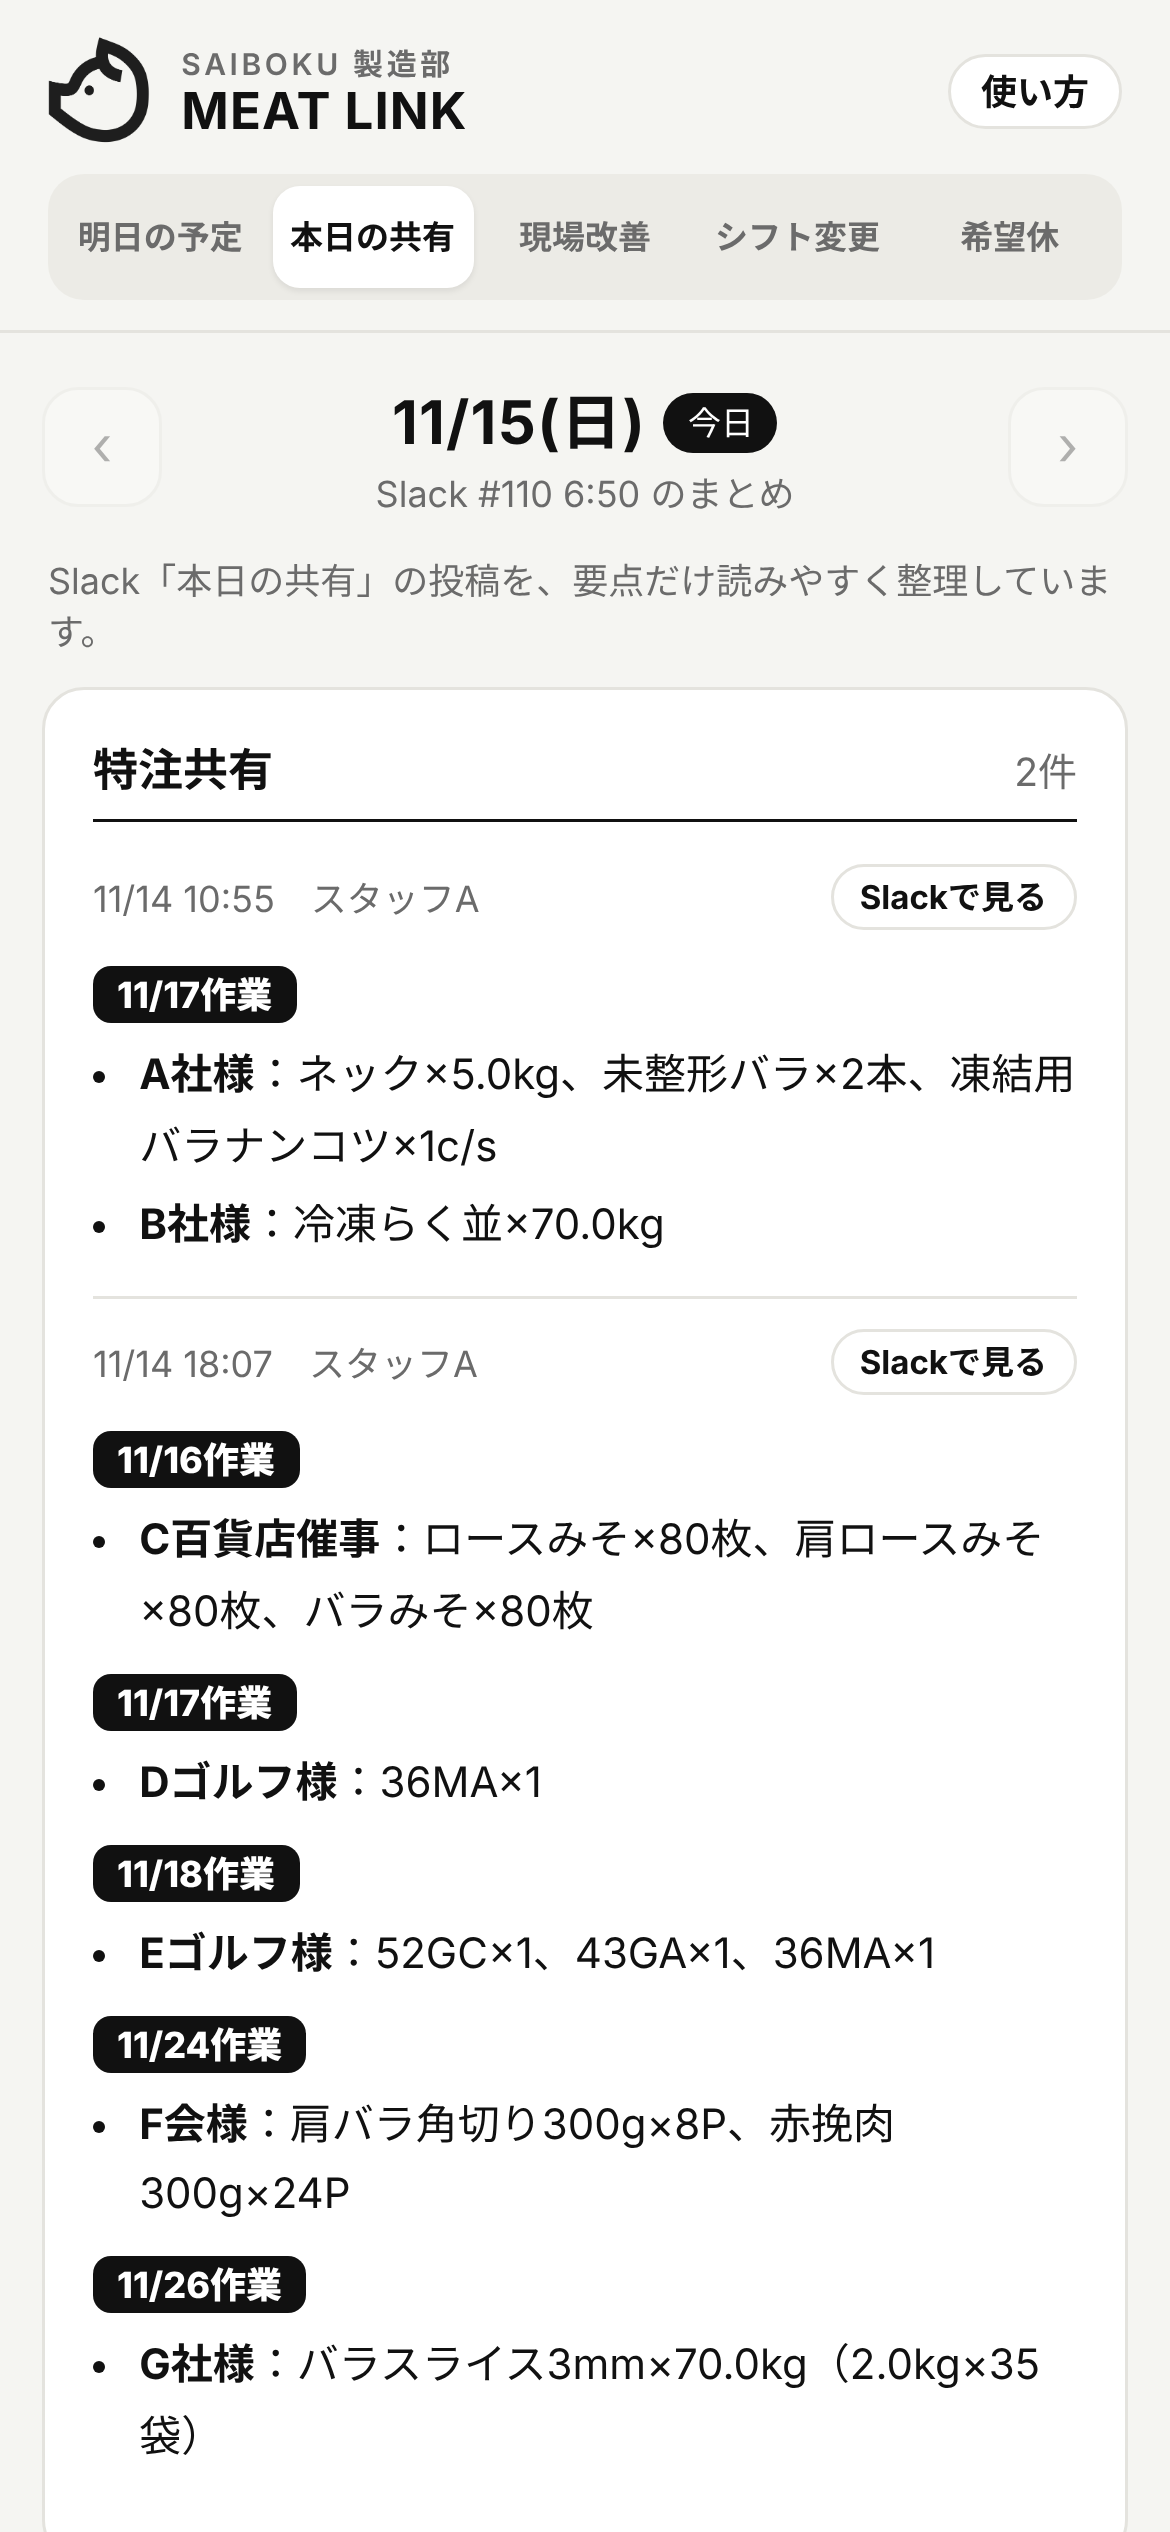
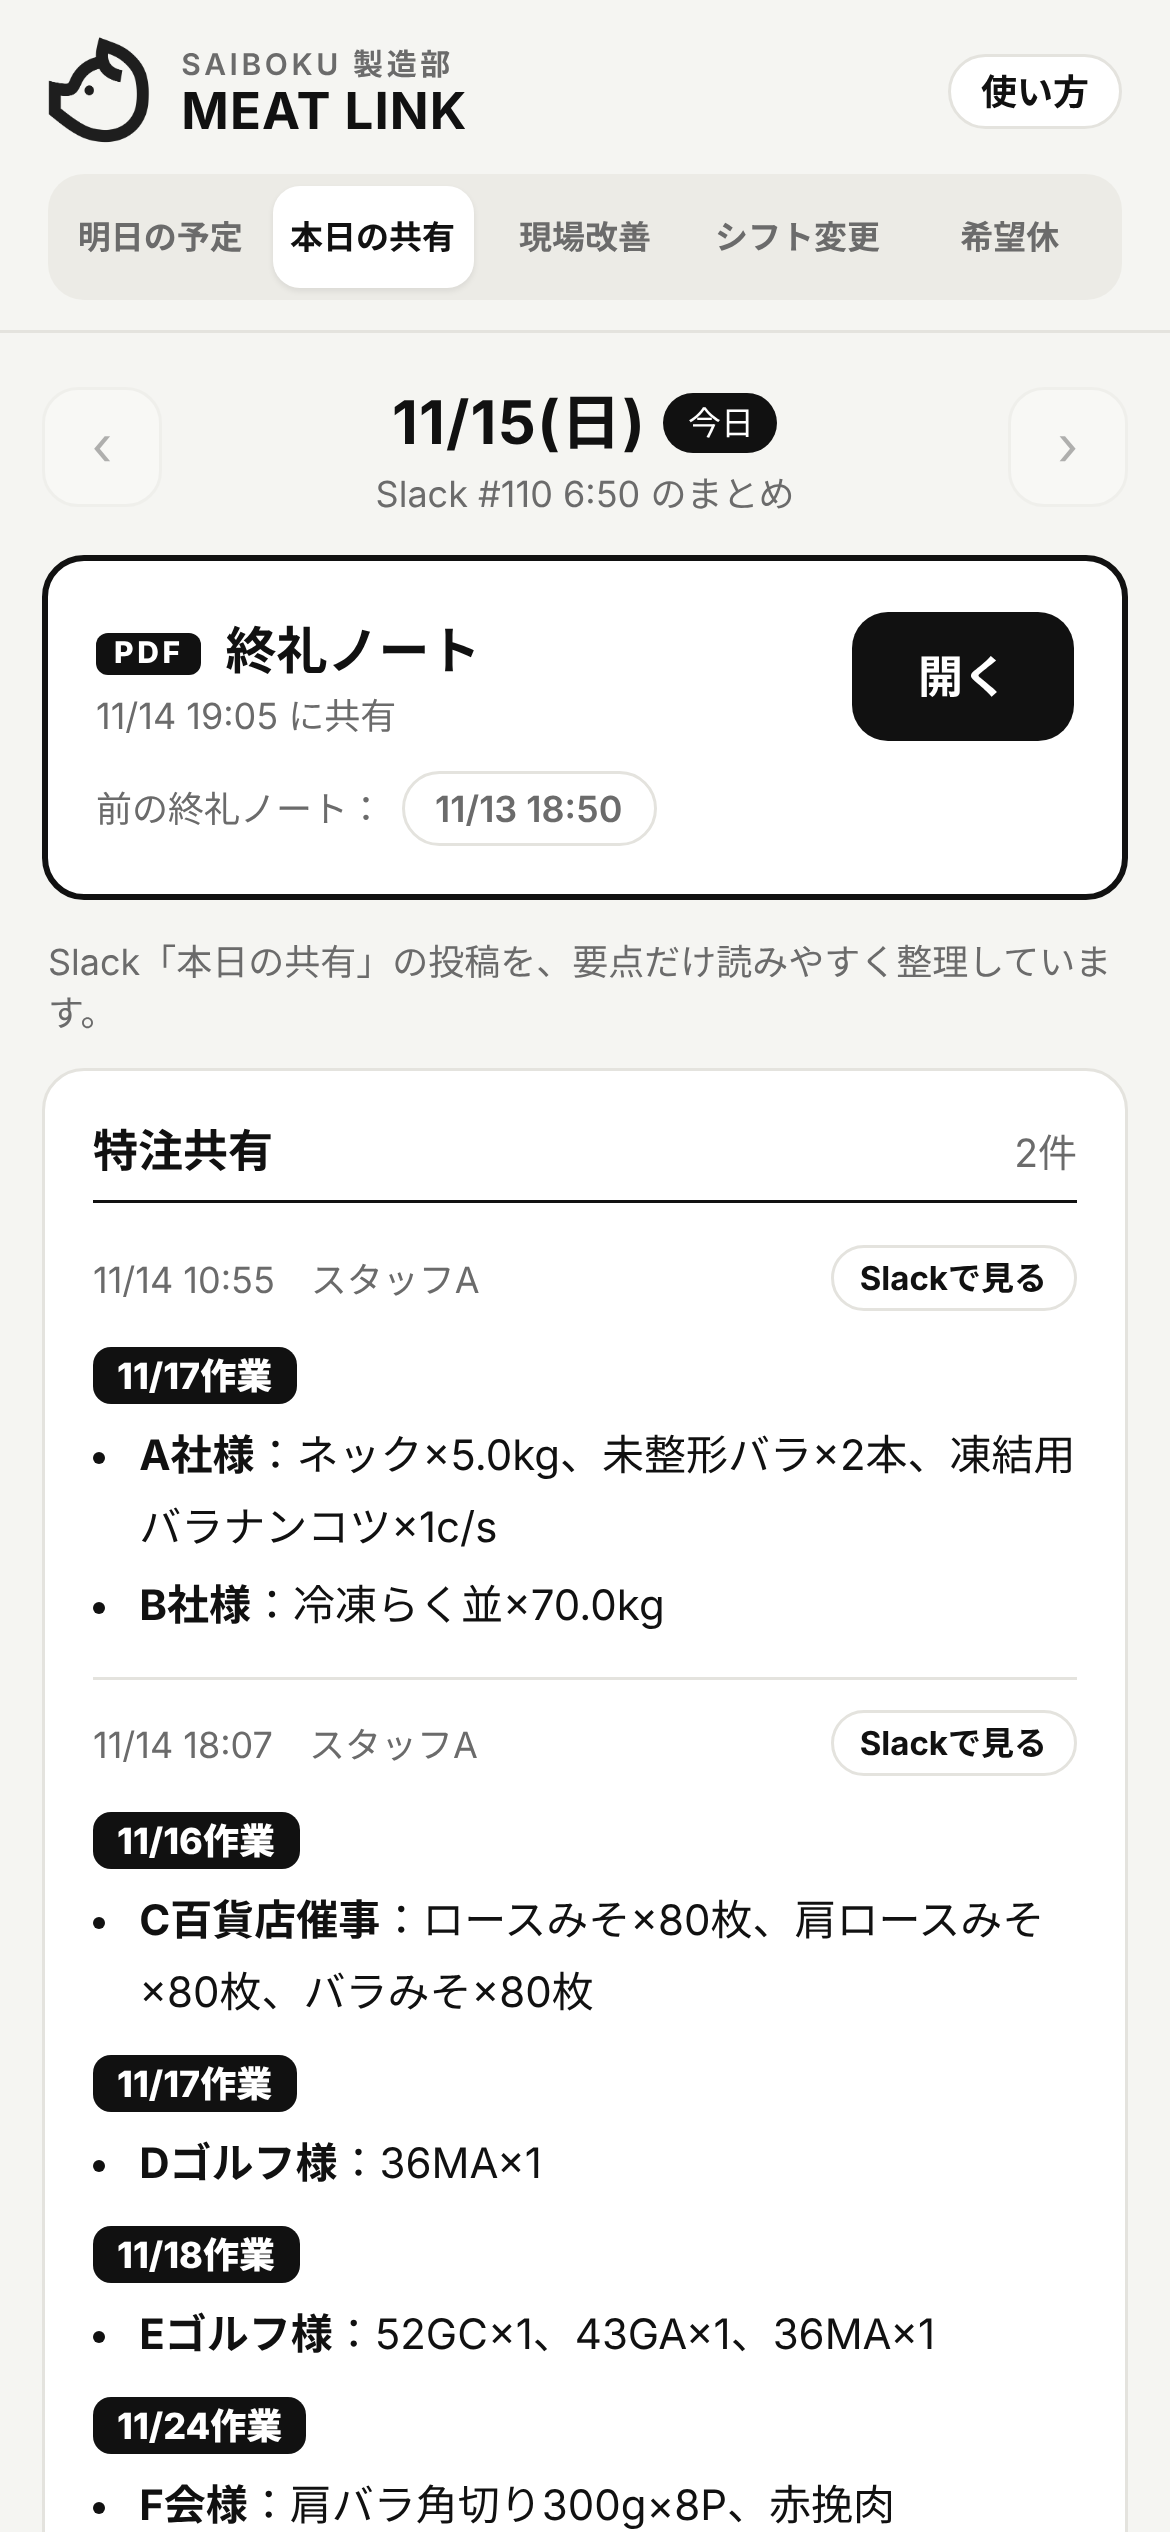
マニュアルにトライアル日程を追加、終礼ノートの画面写真、印刷レイアウト改善
Claude-Session: https://claude.ai/code/session_01J7Ji78JV7wAGzsC1yJ4dfB

diff --git a/manual.html b/manual.html
@@ -24,6 +24,7 @@
     <p>明日の作業予定・本日の共有・現場改善・シフト変更・希望休が、ひとつのアプリで見られます。ログインは不要です（はじめに合言葉を入れます）。</p>
   </div>
 
+  <div class="point"><b>運用スケジュール</b>トライアル：<b>11月16日（月）〜11月22日（日）</b>　／　本格運用：<b>11月23日（月）から</b><br>トライアル中に「使いにくい」「こうしてほしい」があれば、塚越に声をかけてください。</div>
   <nav class="toc"><b>目次</b>
     <ol>
       <li><a href="#s1">このアプリでできること</a></li>
@@ -70,7 +71,7 @@
   </section>
 
   <section id="s2b">
-    <h2><span class="no">02+</span>はじめて開くとき（合言葉）</h2>
+    <h2><span class="no">03</span>はじめて開くとき（合言葉）</h2>
     <p>はじめて開くと「合言葉を入力してください」と出ます。社員に聞いた合言葉を入れて「開く」を押してください。</p>
     <img class="shot phone" src="assets/manual/m-key.png" alt="合言葉の入力" loading="lazy">
     <ul>
@@ -81,7 +82,7 @@
   </section>
 
   <section id="s3">
-    <h2><span class="no">03</span>明日の作業予定を見る</h2>
+    <h2><span class="no">04</span>明日の作業予定を見る</h2>
     <p>アプリを開くと「明日の予定」が表示されます。</p>
     <ul>
       <li><b>日付</b>：表示している作業日です。横に「明日」「今日」などと出ます。</li>
@@ -98,7 +99,7 @@
   </section>
 
   <section id="s4">
-    <h2><span class="no">04</span>自分の予定を見る</h2>
+    <h2><span class="no">05</span>自分の予定を見る</h2>
     <p>「自分の予定」で <b>自分の名前</b> を選ぶと、何時から何の作業をするかが出ます。</p>
     <img class="shot phone" src="assets/manual/m-me.png" alt="自分の予定" loading="lazy">
     <ul>
@@ -109,7 +110,7 @@
   </section>
 
   <section id="s5">
-    <h2><span class="no">05</span>作業室ごとのくわしい予定</h2>
+    <h2><span class="no">06</span>作業室ごとのくわしい予定</h2>
     <p>黒いカードの下にあるボタンで、見たい作業室を切り替えます（精肉パック → 内臓作業室 → 当日分 → 翌日分の順。最初は精肉パックが出ます）。</p>
     <img class="shot phone" src="assets/manual/m-sections.png" alt="作業室の切り替え" loading="lazy">
 
@@ -131,7 +132,7 @@
   </section>
 
   <section id="s6">
-    <h2><span class="no">06</span>当日分・翌日分を見る</h2>
+    <h2><span class="no">07</span>当日分・翌日分を見る</h2>
     <p>「当日分」「翌日分」を押すと、売場ごと（スライサー・内臓・AtoZ・まな板・詰め物など）に、作る商品と数が出ます。</p>
     <img class="shot phone" src="assets/manual/m-today.png" alt="当日分" loading="lazy">
     <ul>
@@ -143,7 +144,7 @@
   </section>
 
   <section id="s6b">
-    <h2><span class="no">06+</span>本日の共有を見る</h2>
+    <h2><span class="no">08</span>本日の共有を見る</h2>
     <p>「本日の共有」タブでは、毎朝6:50にSlackの #110 に出る「本日の共有」の中身を、<b>要点だけ</b> 読みやすく整理して表示します。Slackを開かなくても確認できます。</p>
     <img class="shot phone" src="assets/manual/m-share.png" alt="本日の共有" loading="lazy">
     <ul>
@@ -157,7 +158,7 @@
   </section>
 
   <section id="s7">
-    <h2><span class="no">07</span>現場改善・シフト変更・希望休</h2>
+    <h2><span class="no">09</span>現場改善・シフト変更・希望休</h2>
     <p>上のタブを押すと、それぞれのページがアプリの中に開きます。使い方は今までと同じです。</p>
     <ul>
       <li><b>現場改善</b>：改善のアイデアや困りごとを送るフォームです。</li>
@@ -169,7 +170,7 @@
   </section>
 
   <section id="s8">
-    <h2><span class="no">08</span>こんなときは</h2>
+    <h2><span class="no">10</span>こんなときは</h2>
     <table>
       <tr><th>こまったこと</th><th>どうする</th></tr>
       <tr><td>「作業予定がまだありません」と出る</td><td>まだ作業指示書が取り込まれていません。少し待ってから開き直してください。</td></tr>

diff --git a/manual-admin.html b/manual-admin.html
@@ -23,6 +23,7 @@
     <p>作業指示書（Excel）をアプリに取り込んで、メンバーのスマホに「明日の作業予定」を表示するための手順です。</p>
   </div>
 
+  <div class="point"><b>運用スケジュール</b>トライアル：<b>11月16日（月）〜11月22日（日）</b>　／　本格運用：<b>11月23日（月）から</b><br>トライアル中に「使いにくい」「こうしてほしい」があれば、塚越に伝えてください（パート・アルバイトの声も集めてください）。</div>
   <nav class="toc"><b>目次</b>
     <ol>
       <li><a href="#a1">しくみと流れ</a></li>
@@ -140,7 +141,7 @@
   </section>
 
   <section id="a5b">
-    <h2><span class="no">05+</span>本日の共有と合言葉</h2>
+    <h2><span class="no">06</span>本日の共有と合言葉</h2>
     <h3>本日の共有</h3>
     <ul>
       <li>毎朝6:50にSlack #110 に出る「本日の共有」をもとに、元の投稿を読んで要点を整理し、アプリの「本日の共有」タブに表示します（7時台に自動で作成。7時前に開いた人がいれば、その時点で作成）。</li>
@@ -158,7 +159,7 @@
   </section>
 
   <section id="a6">
-    <h2><span class="no">06</span>メンバーへの案内</h2>
+    <h2><span class="no">07</span>メンバーへの案内</h2>
     <ul>
       <li>メンバー向けの使い方ガイド：<a href="manual.html">manual.html</a>（QRコード・ホーム画面追加の方法つき）</li>
       <li>掲示用のA4（QRコード付き・1枚）：<a href="poster.html">poster.html</a>（<a href="poster.pdf">PDF</a>）</li>
@@ -169,7 +170,7 @@
   </section>
 
   <section id="a7">
-    <h2><span class="no">07</span>管理者向けメモ</h2>
+    <h2><span class="no">08</span>管理者向けメモ</h2>
     <table>
       <tr><th>項目</th><th>内容</th></tr>
       <tr><td>共有アプリ</td><td>https://s-meat.github.io/meat-portal/（GitHub：S-meat/meat-portal）</td></tr>

diff --git a/assets/manual.css b/assets/manual.css
@@ -57,7 +57,9 @@ kbd{font-family:inherit;font-size:13px;border:1px solid #ccc;border-bottom-width
   .head{position:static}
   .head .btn,.toc{display:none}
   body{background:#fff}
-  section,.hero{break-inside:avoid-page}
-  .shot{max-height:120mm;width:auto}
+  .hero,.point,.qr,.box,table,tr{break-inside:avoid-page}
+  h2,h3{break-after:avoid-page}
+  .shot{max-height:95mm;width:auto;break-inside:avoid-page}
+  section{padding:12px 14px;margin-bottom:10px}
   .hero{-webkit-print-color-adjust:exact;print-color-adjust:exact}
 }
